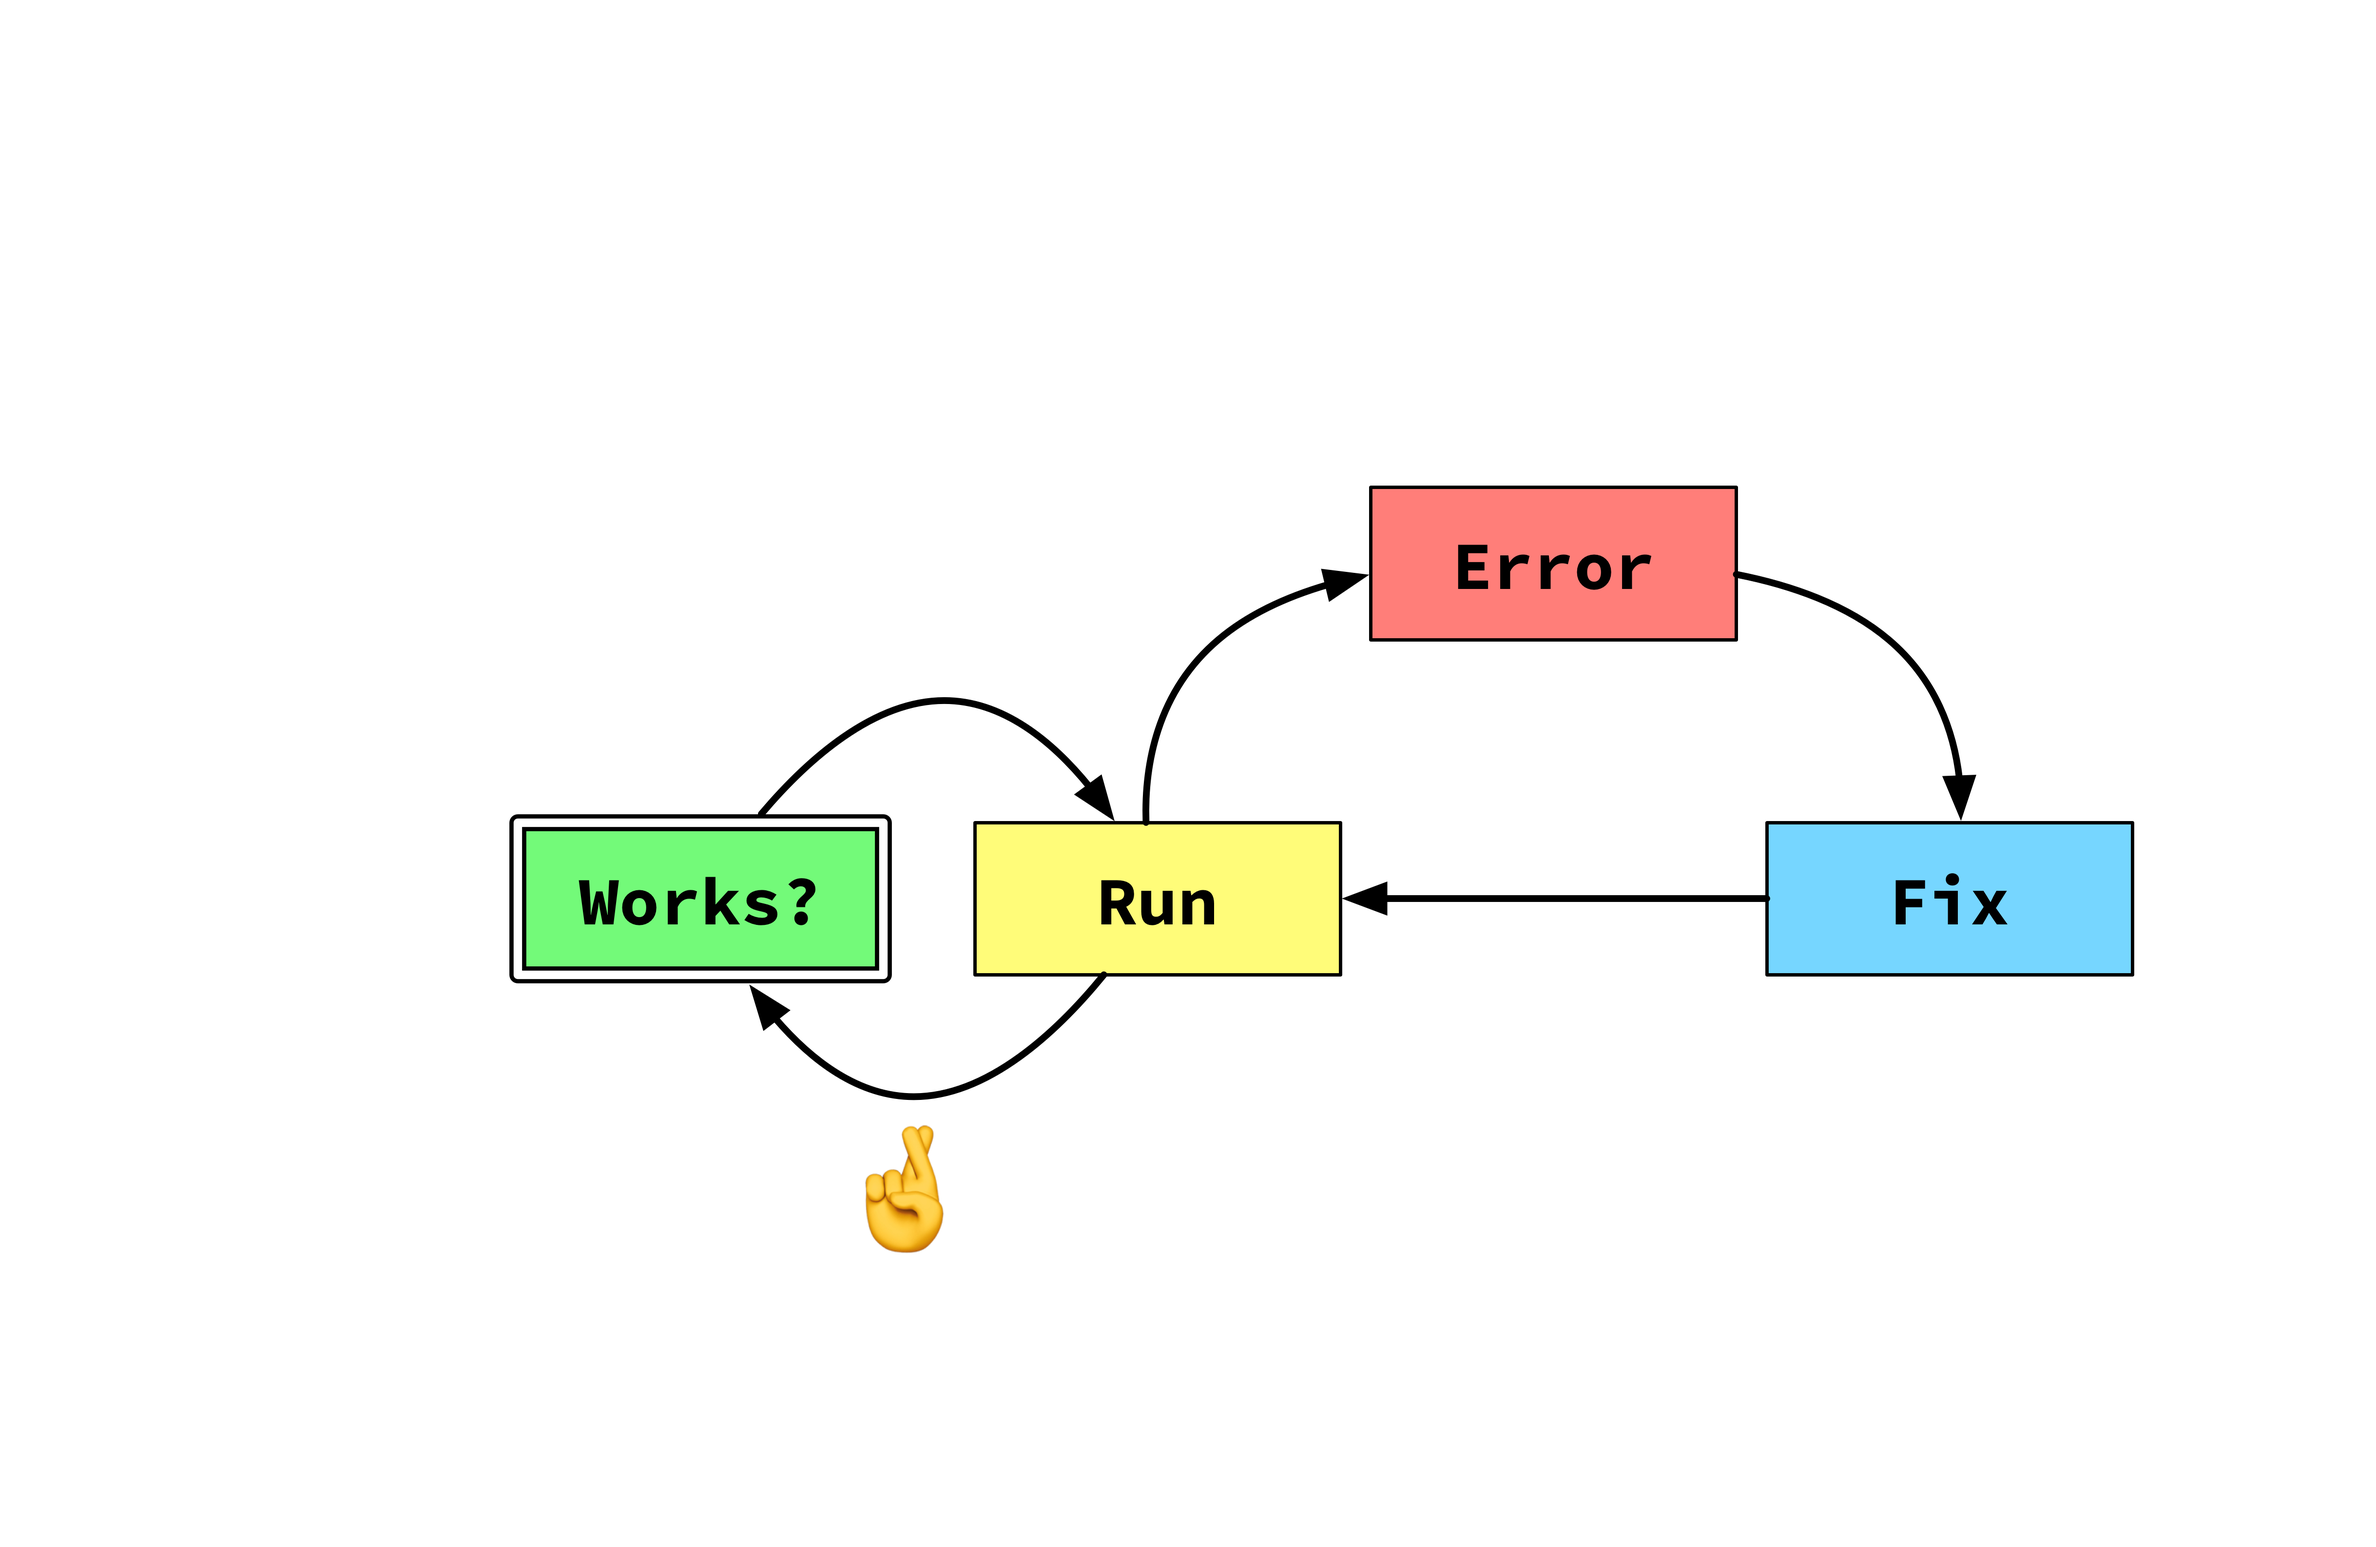
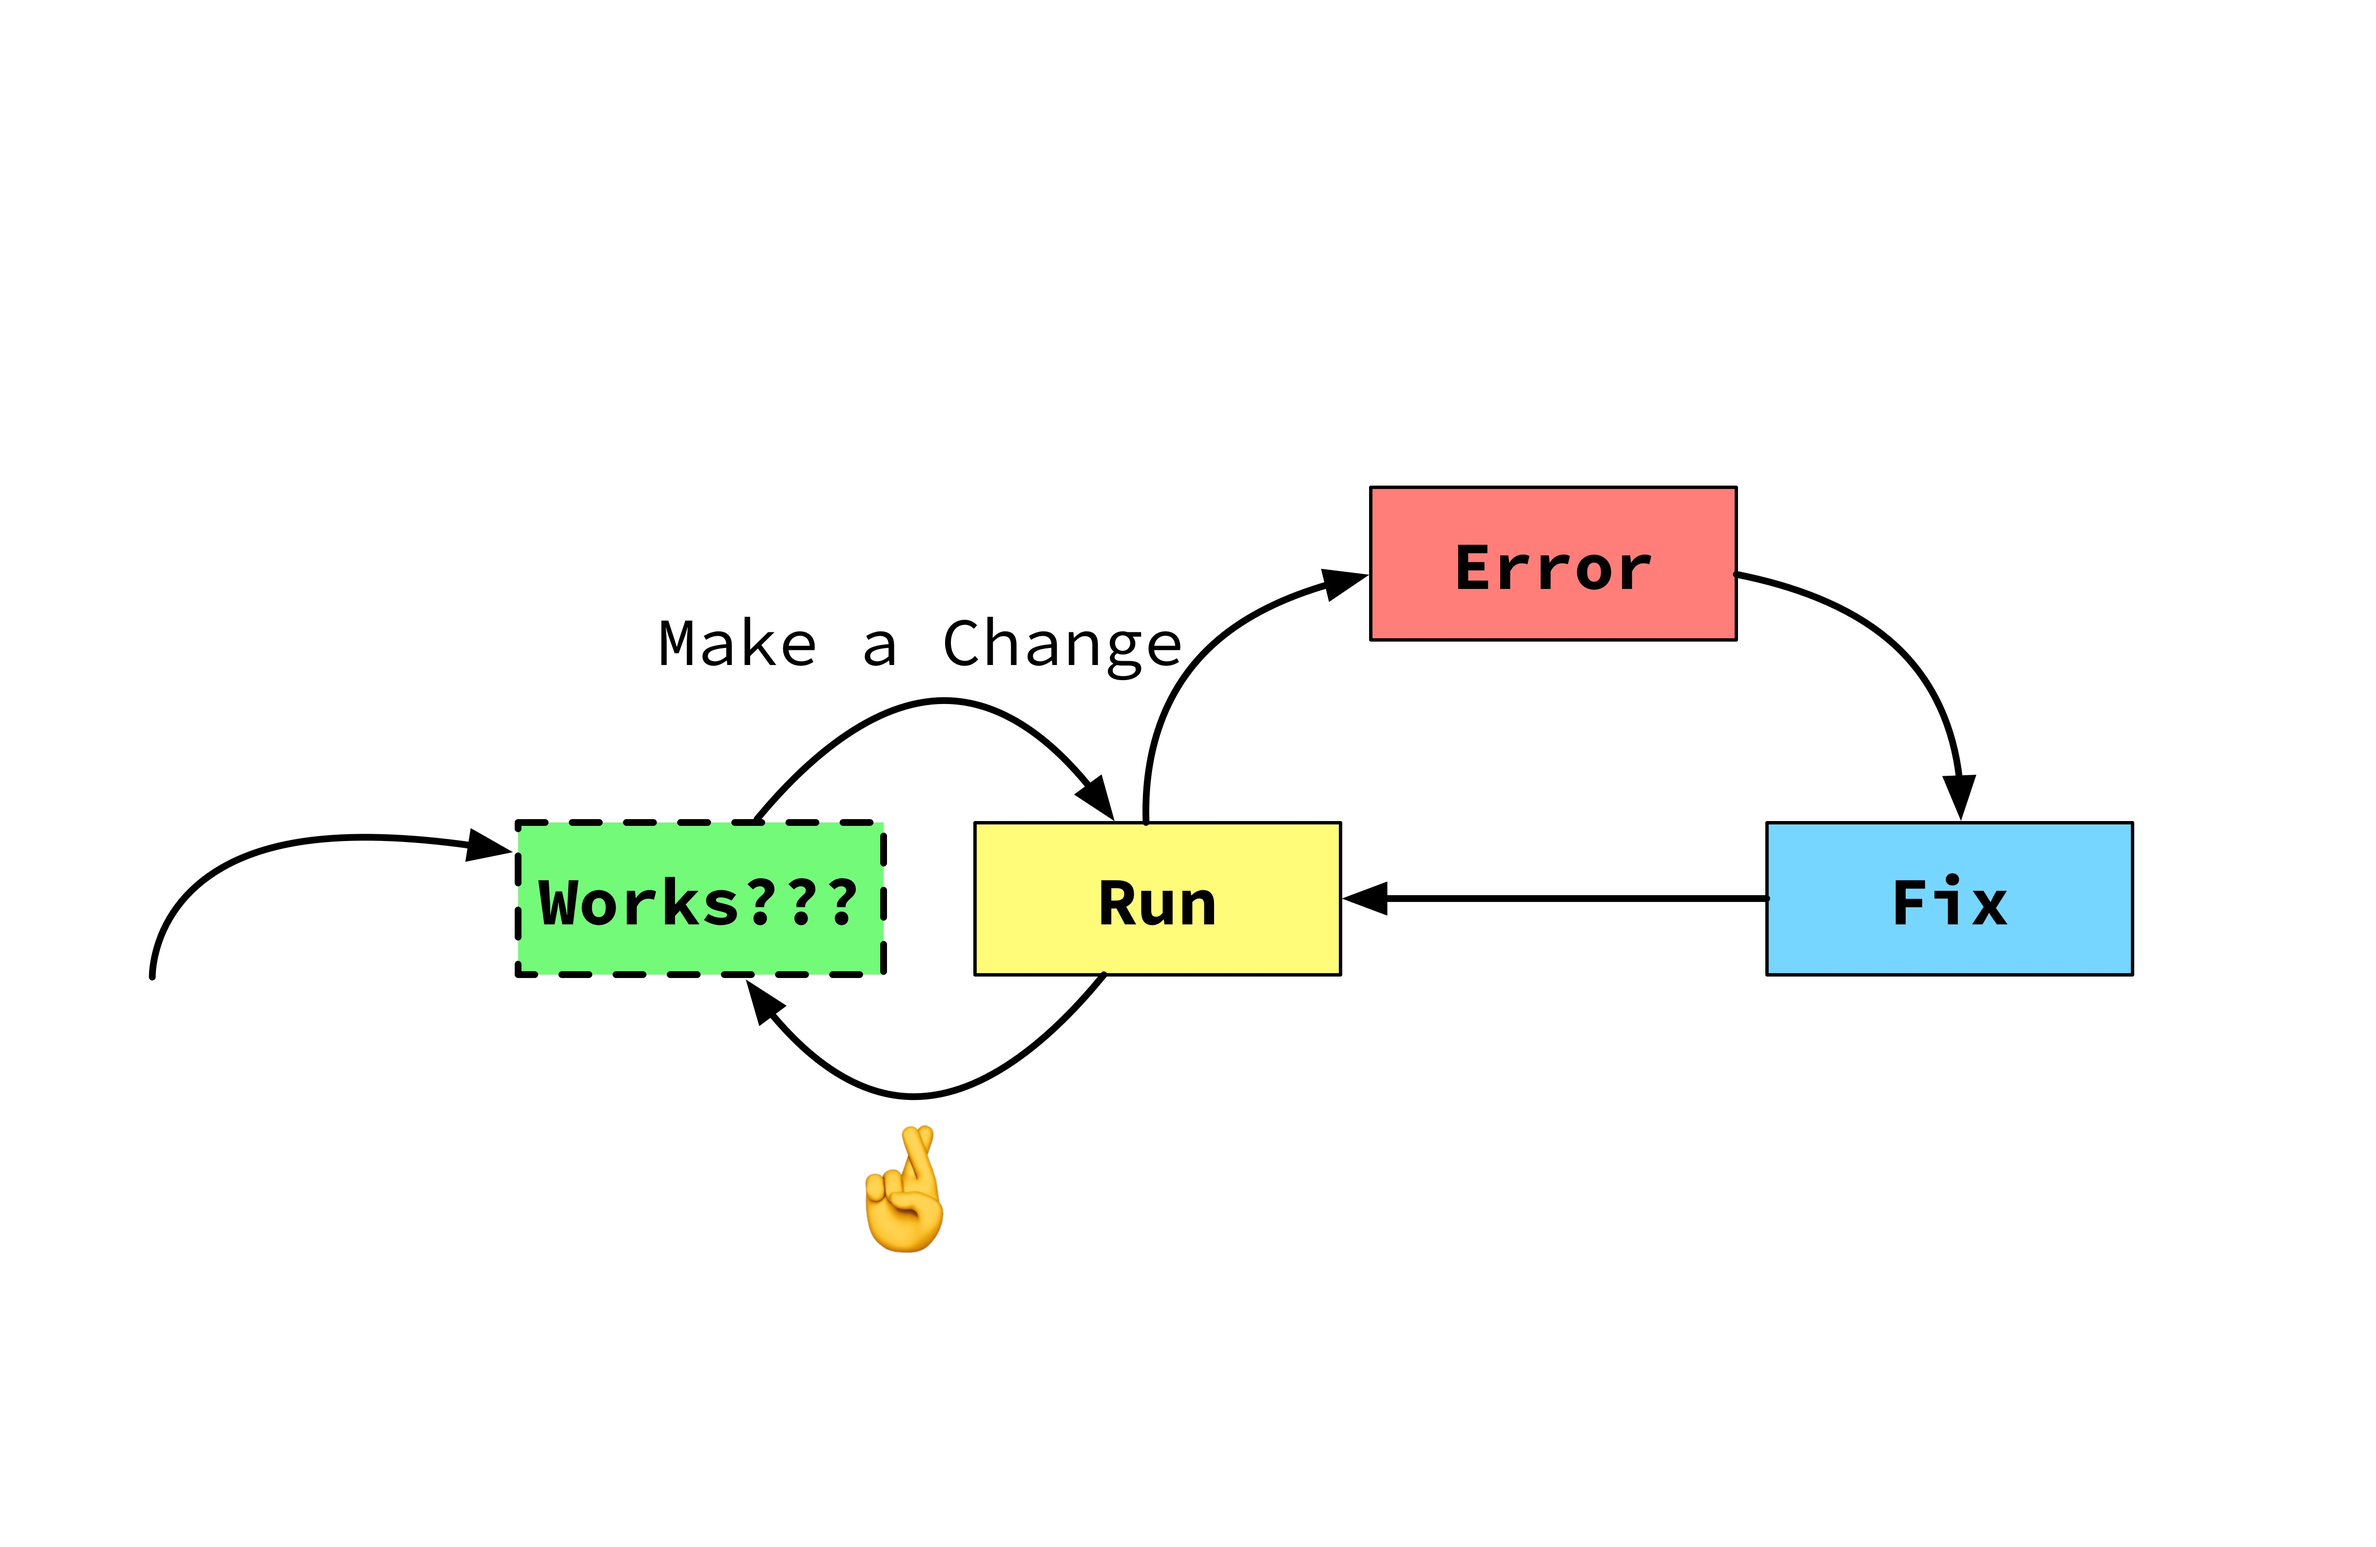
Update slides.

Changed region(s): [[0.0935, 0.4992, 0.3742, 0.6552], [0.2806, 0.4056, 0.4989, 0.4368], [0.0624, 0.5616, 0.0935, 0.624]]

diff --git a/types-without-borders/README.md b/types-without-borders/README.md
@@ -14,6 +14,8 @@ Twitter: [@dillontkearns](https://twitter.com/dillontkearns)
 - Type-Safe JavaScript Interop - [`dillonkearns/elm-typescript-interop`](https://github.com/dillonkearns/elm-typescript-interop) (see the [`elm-typescript-starter`](https://github.com/dillonkearns/elm-typescript-starter) which uses `elm-typescript-interop`).
 - Type-Safe Electron - [`dillonkearns/elm-electron`](https://github.com/dillonkearns/elm-electron)
 
+[This is a great intro to GraphQL](https://graphql.org/learn/).
+
 ## Representing Contracts in Elm
 
 When you're representing an external system's contract within Elm's type system

diff --git a/types-without-borders/types-without-borders.md b/types-without-borders/types-without-borders.md
@@ -256,7 +256,7 @@ type Error
 
 # Avoidable Uncertainty
 
-![original](./img/run-fix.jpg)
+![original](./img/run-fix2.jpg)
 
 ^ Not what we signed up for!
 
@@ -531,6 +531,26 @@ Show that it knows the lookup results in `null | string`... it will be happy if 
 - Any user-defined contract
 
 ^ Remove avoidable uncertainty.
+
+# -
+
+![fit](img/typed-local-storage1.jpg)
+
+# -
+
+![fit](img/typed-local-storage2.jpg)
+
+# -
+
+![fit](img/typed-local-storage3.jpg)
+
+# -
+
+![fit](img/typed-local-storage4.jpg)
+
+# -
+
+![fit](img/typed-local-storage5.jpg)
 
 # -
 
